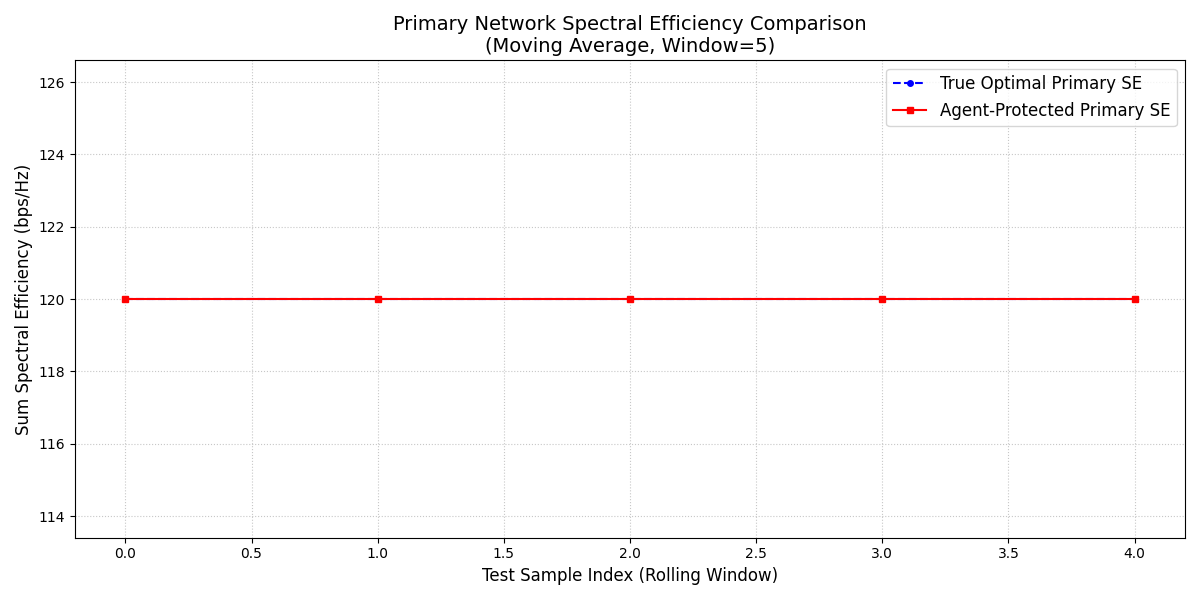
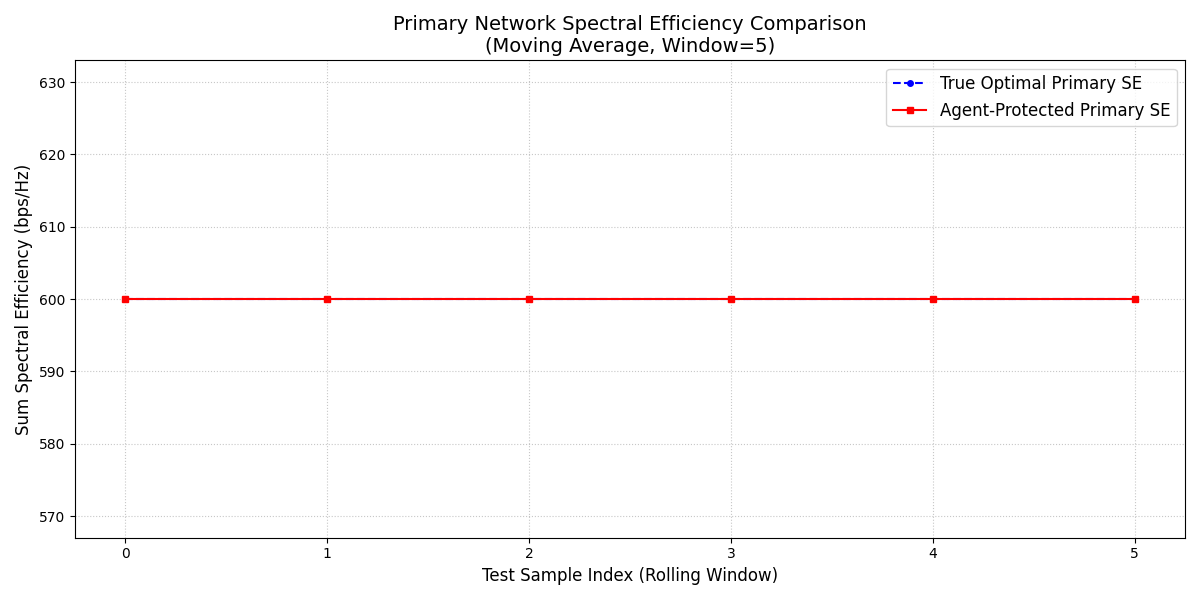
test

diff --git a/5Agents_work_on_power_alloc/quick_test.py b/5Agents_work_on_power_alloc/quick_test.py
@@ -527,7 +527,7 @@ app = workflow.compile()
 
 data = gen_channels(120)
 train = data[:90]
-test = data[95:96]
+test = data[90:100]
 prompt_secondary_allocation = build_prompt(train)
 all_pred_P2 = []
 all_true_P2 = []
